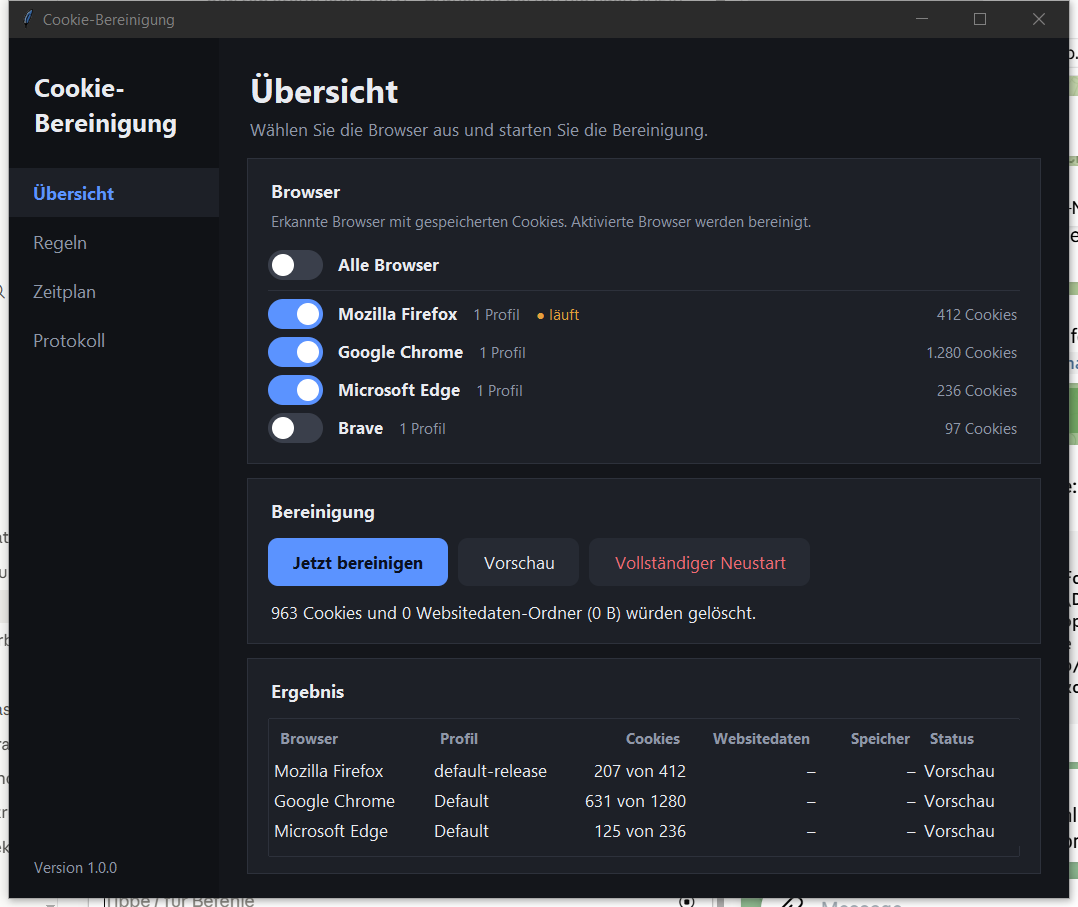
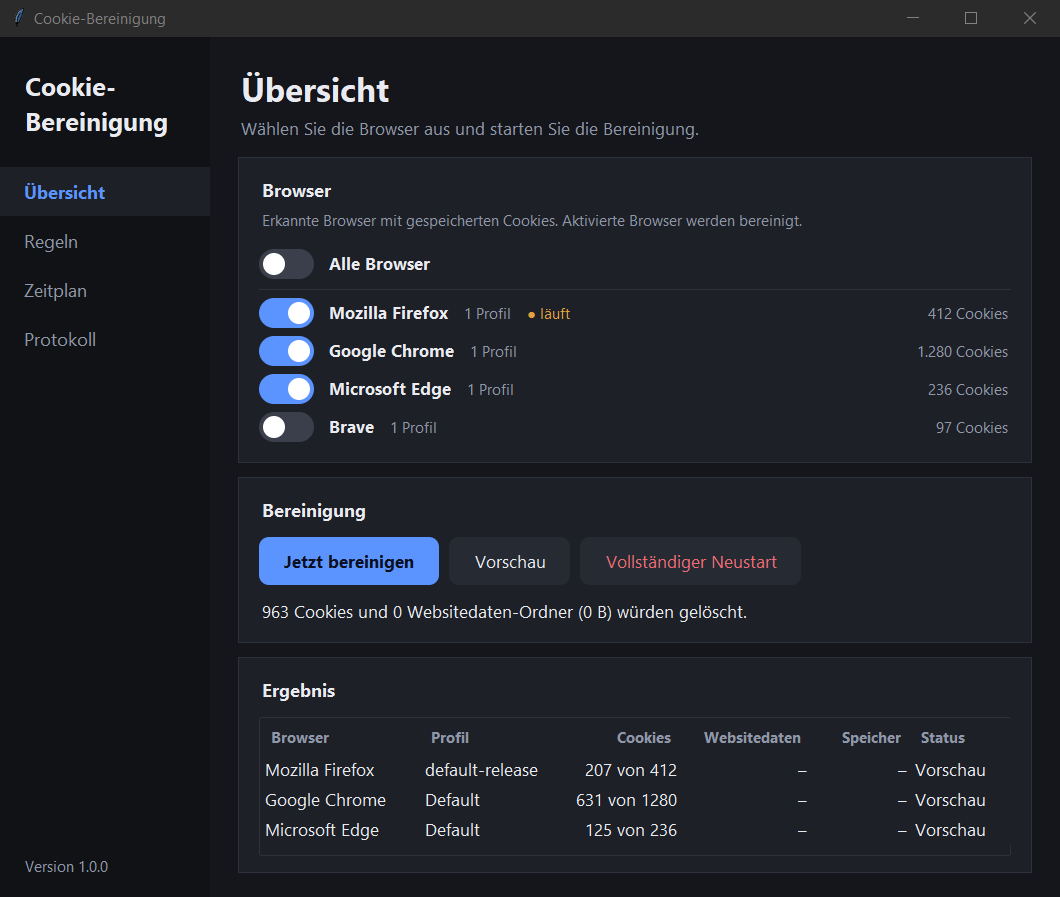
Dunkle Bildlaufleiste, Screenshots ohne Umgebung

diff --git a/cookie_cleaner/widgets.py b/cookie_cleaner/widgets.py
@@ -216,6 +216,10 @@ def configure_styles(root: tk.Misc, palette: dict[str, str]) -> None:
         lightcolor=palette["track"],
         darkcolor=palette["track"],
     )
+    style.map(
+        "Vertical.TScrollbar",
+        background=[("active", palette["muted"]), ("!active", palette["track"])],
+    )
     style.configure(
         "TProgressbar",
         background=palette["accent"],
